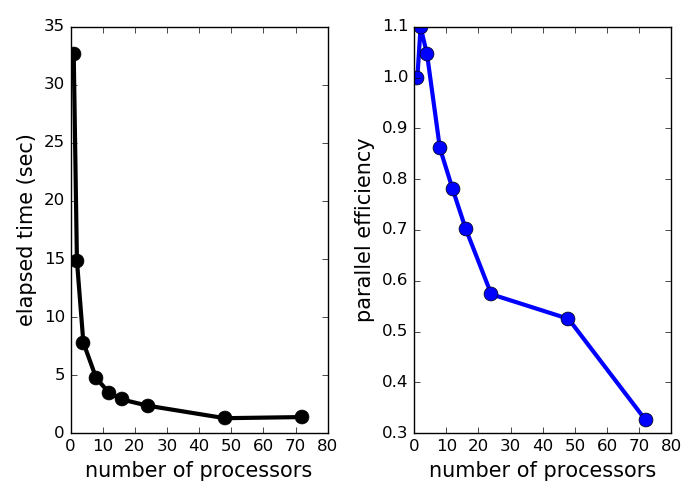
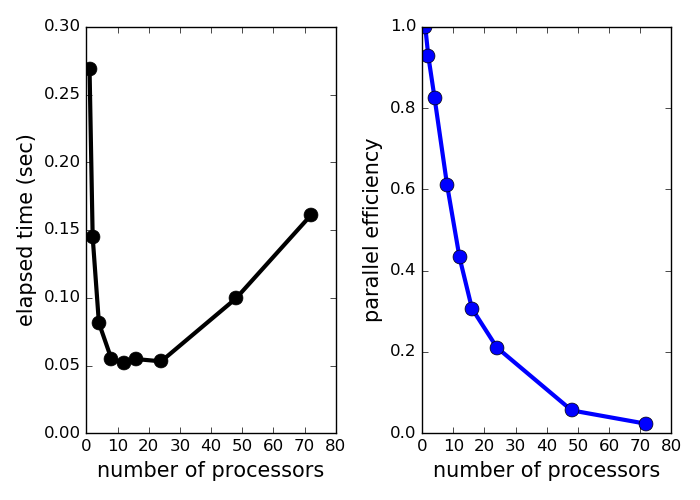
final version without tau profiling

diff --git a/hw2/doc/tsanyal_report.tex b/hw2/doc/tsanyal_report.tex
@@ -40,21 +40,24 @@ v & = 2(p-2) * BLOCK\_SIZE + 2 * BLOCK\_SIZE \\
 \end{figure*}
 
 \section*{Scaling analyses}
-\noindent The strong scaling experiment was run with $p = 1, 2, 4, 8, 12, 16, 24, 48, 72$ cores. Comet's compute nodes have cores that are multiples of 24, which guided this particular choice of higher $p$ values. $k = 64 * 24 = 1536$ on a single processor with 1000 CG iterations was found to take around 32 sec. With this value of k, the strong scaling looks like:
+\noindent The strong scaling experiment was run with $p = 1, 2, 4, 8, 12, 16, 24, 48, 72$ cores. Comet's compute nodes have cores that are multiples of 24, which guided this particular choice of higher $p$ values. $k = 144$ on a single processor with 1000 CG iterations was found to take around 0.26 sec. With this value of k, the strong scaling looks like:
 %
 \begin{figure*}[h]
 \centering
 \includegraphics[scale = 0.7]{strongscale.png}
-\caption{Strong scaling for $ k = 1536$}
+\caption{Strong scaling for $ k = 144$}
 \end{figure*}
-%
+
+\noindent While the time taken for $p = 1$ is much lesser than the prescribed 30 sec - 1 min, this small value of $k$ helps us diagnose an important aspect from the strong scaling plot. $k = 144$ is a relatively small sized problem when distributed across many processors and so for $p >= 24$, when the cores get distributed across two comet nodes, the speedup is affected because of latency overhead in interprocessor communication. For a sufficiently large size problem, this change would be less noticeable.
 \newpage
 \noindent The weak scaling experiment used a similar number of processors as the previous case. However the first $k$ value was set at 144. This ensures that $k^2/p$ is always an integer and the tests run fast, even with 1000 iterations of the CG loop. Subsequent value of $k$ were chosen as $144 * int(sqrt(k))$. The weak scaling is:
 %
 \begin{figure*}[h]
 \centering
 \includegraphics[scale = 0.7]{weakscale.png}
-\caption{Weak scaling}
+\caption{Weak scaling for $ k = 144, 144, 288, 288, 432, 576, 576, 864, 1152$}
 \end{figure*}
+
+\noindent In weak scaling, the problem size grows with the number of processors, which is primarily responsible for sublinear speedup. However, this also means that the problem size on each processor is tailored to be comparable to the corresponding memory requirement, which further tips the effective latency - computation balance. So latency overhead effects start appearing not across nodes but also across cores within the same node.
 
 \end{document}

diff --git a/hw2/src/scaling.py b/hw2/src/scaling.py
@@ -1,7 +1,5 @@
 #!/usr/bin/env python
 import math, os, sys, subprocess, time
-import numpy as np
-import matplotlib.pyplot as plt
 
 job_template = '''#!/bin/bash
 #SBATCH --job-name=%(Prefix)s
@@ -26,15 +24,15 @@ MaxCoresPerNode = 24
 exptType = sys.argv[1]
 if exptType == 'strongscale':
 	Prefix = 'strongscale'
-	pList = [1,2,4] #[1, 2, 4, 8, 12, 16, 24, 48, 72] # powers of 2 for less than 1 node and multiples of max cores per node for greater
-	kList = [ 24*64 ] * len(pList) # elapsed time for this k with p = 1 is ~ 32 sec
+	pList = [1, 2, 4, 8, 12, 16, 24, 48, 72] # powers of 2 for less than 1 node and multiples of max cores per node for greater
+	kList = [ 144 ] * len(pList)
 
 if exptType == 'weakscale':
 	# make sure that niters = 100 or some low value in main.c or this will take forever
 	Prefix = 'weakscale'
 	pList = [1, 2, 4, 8, 12, 16, 24, 48, 72]
-	factor  = 24 * 64 # this maintains k^2/p = integer (can choose the LCM of p values, but will lead to too small runtimes)
-	kList = [24 * 64]; [kList.append( factor * int(math.sqrt(p)) ) for p in pList]
+	factor  = 144 # this maintains k^2/p = integer
+	kList = [factor]; [kList.append( factor * int(math.sqrt(p)) ) for p in pList[1:] ]
 
 if not isComputed:
 	if os.path.isfile('xApprox.txt'): os.remove('xApprox.txt')
@@ -68,25 +66,10 @@ if not isComputed:
 print 'Gathering time data...'
 lines = file('xApprox.txt').readlines()
 ind = [i for i, line in enumerate(lines) if line.startswith('#k')]
-of = file('%s.dat' % exptType, 'w') ; of.write('k\tp\ttime elapsed\n')
+of = file('%s.dat' % exptType, 'w') ; of.write('#k\tp\ttime elapsed\n')
 for ii in ind:
 	l = lines[ii+1].split()
 	k = int(l[0]) ; p = int(l[1]) ; t = float(l[-1])
 	of.write('%d\t%d\t%f\n' % (k, p, t))
 of.close()
-
-# calculate metrics and plot
-figname = '%s.png' % exptType
-data = np.loadtxt('%s.dat' % exptType)
-kvals = data[:,0]; pvals = data[:,1]; tvals = data[:,2] ; t1 = tvals[0]
-par_eff = t1/(pvals * tvals)
-fig = plt.figure(figsize = (4,4), facecolor = 'w', edgecolor = 'w')
-ax1 = fig.add_subplot(1,2,1); ax2 = fig.add_subplot(1,2,2)
-ax1.plot(pvals, tvals, 'k-', linewidth = 3, marker = 'o', markersize = 6)
-ax2.plot(pvals, par_eff, linediwth = 3, marker = 'o', markersizer = 6)
-ax1.set_xlabel('number of processors', fontsize = 10); ax1.set_ylabel('elapsed time (sec)', fontsize = 10)
-ax2.set_xlabel('number of processors', fontsize = 10); ax2.set_ylabel('parallel efficiency', fontsize = 10)
-plt.savefig(figname)
-
-plt.show()
 

diff --git a/hw2/src/tau_jobs.py b/hw2/src/tau_jobs.py
@@ -1,0 +1,43 @@
+#!/usr/bin/env python
+import os, sys, subprocess, time
+
+job_template = '''#!/bin/bash
+#SBATCH --job-name=tauprof
+#SBATCH --output="tauprof.out"
+#SBATCH --partition=compute
+#SBATCH --nodes=%(NNodes)d
+#SBATCH --ntasks-per-node=%(NCoresPerNode)d
+#SBATCH --export=ALL
+#SBATCH -t 01:00:00
+#SBATCH -A TG-ASC160059
+#ibrun in verbose mode will give binding detail
+cd /home/$USER/hw2
+ibrun -np %(p)d -v ./cgsolve %(k)d 1 0
+touch tauprof.done
+'''
+
+MaxCoresPerNode = 24
+pList = [1, 2, 4, 8, 12, 24, 48, 72] # powers of 2 for less than 1 node and multiples of max cores per node for greater
+kList = [ 24*64 ] * len(pList) # elapsed time for this k with p = 1 is ~ 32 sec
+
+if os.path.isfile('xApprox.txt'): os.remove('xApprox.txt')
+NCases = len(pList)
+print 'Starting tau profiling experiment....\n'
+for i in range(NCases):
+	p = pList[i] ; k = kList[i]
+	NNodes = int(p/MaxCoresPerNode)
+	if NNodes < 1: NNodes = 1
+	NCoresPerNode = p if p < MaxCoresPerNode else MaxCoresPerNode
+	paramdict = {'NNodes': NNodes, 'NCoresPerNode': NCoresPerNode, 'k': k, 'p': p}
+	jobfilename = 'tauprof_%d.sh' % p
+	file(jobfilename, 'w').write(job_template % paramdict)
+
+	# simple job completion monitor
+	print 'p = %d job running...' % p
+	proc = subprocess.Popen(['sbatch',  jobfilename], stdout = subprocess.PIPE)
+	stdoutdata, stderrdata = proc.communicate()
+	while not os.path.isfile('taupof.done'): time.sleep(1.0) # monitor
+	print 'p = %d job completed\n' % p
+
+	cmdstring = 'pprof > tauprof_%d.dat ; mv profile.* ./%d; rm tauprof.done; rm tauprof.out; rm xApprox.txt' % (p, p)
+	os.system(cmdstring)

diff --git a/hw2/src/plot_verify.py b/hw2/src/plot_verify.py
@@ -1,0 +1,32 @@
+#!/usr/bin/env python
+import numpy as np 
+import os, sys
+import matplotlib.pyplot as plt
+
+# please just have 1 run data saved in the output file for this to work
+
+xApproxFile = os.path.abspath(sys.argv[1])
+l = file(xApproxFile, 'r').readlines()[1]
+k = int(l.split()[0]); p = int(l.split()[1]);
+x = np.loadtxt(xApproxFile, skiprows = 2).reshape((k,k))
+
+x_expected = np.zeros(k*k)
+for i in range(k*k):
+	rowi = np.mod(i,k)
+	x_expected[i] = float(rowi) / float(k+1)
+x_expected = x_expected.reshape(k,k)
+
+r = c = np.linspace(0,1,k)
+R,C = np.meshgrid(r,c)
+fig = plt.figure(figsize = (8,5), facecolor = 'w', edgecolor = 'w')
+ax1 = fig.add_subplot(1,2,1); ax2 = fig.add_subplot(1,2,2)
+ax1.contourf(C,R,x_expected) ; ax2.contourf(C,R,x)
+ax1.set_title('Expected'); ax2.set_title('Calculated')
+for ax in [ax1, ax2]:
+	ax.set_xlabel(r'$x$', fontsize = 15)
+	ax.set_ylabel(r'$y$', fontsize = 15)
+	ax.grid(True)
+
+plt.tight_layout()
+plt.savefig('verify.png')
+plt.show() 

diff --git a/hw2/src/plot_scaling.py b/hw2/src/plot_scaling.py
@@ -1,0 +1,23 @@
+ #!/usr/bin/env python
+
+import sys
+import numpy as np
+import matplotlib.pyplot as plt
+
+exptType = sys.argv[1]
+
+data = np.loadtxt('%s.dat' % exptType)
+kvals = data[:,0]; pvals = data[:,1]; tvals = data[:,2] ; t1 = tvals[0]
+par_eff = t1/(tvals * pvals)
+
+figname = '%s.png' % exptType
+fig = plt.figure(figsize = (7,5), facecolor = 'w', edgecolor = 'w')
+ax1 = fig.add_subplot(1,2,1); ax2 = fig.add_subplot(1,2,2)
+ax1.plot(pvals, tvals, 'k-', linewidth = 3, marker = 'o', markersize = 10)
+ax2.plot(pvals, par_eff, linewidth = 3, marker = 'o', markersize = 10)
+ax1.set_xlabel('number of processors', fontsize = 15); ax1.set_ylabel('elapsed time (sec)', fontsize = 15)
+ax2.set_xlabel('number of processors', fontsize = 15); ax2.set_ylabel('parallel efficiency', fontsize = 15)
+if exptType == 'strongscale': ax1.set_ylim([0.,0.3])
+plt.tight_layout()
+plt.savefig(figname)
+plt.show()

diff --git a/hw2/src/main.c b/hw2/src/main.c
@@ -52,14 +52,11 @@ int main( int argc, char* argv[] ) {
 	
 	} else {
 		if (comm_rank == ROOT) {
-			printf( "\nCGSOLVE Usage: \n\t"
+		printf( "\nCGSOLVE Usage: \n\t"
 			"Model Problem:\tmpirun -np [number_procs] cgsolve [k] [showoutput (0/1)] [verify (0/1)] \n\t"
 			"Custom Input:\tmpirun -np [number_procs] cgsolve -i [input_filename] [showoutput (0/1)] [verify (0/1)] \n\n");
 		}
-		MPI_Finalize();
-		return 1;
 	}
-	
 	writeOutX = atoi( argv[argc-2] ); // Write X to file if true
 	verifyX = atoi( argv[argc-1] ); // verify output if true (only use for small k values as this needs assembling a global vector)
 
